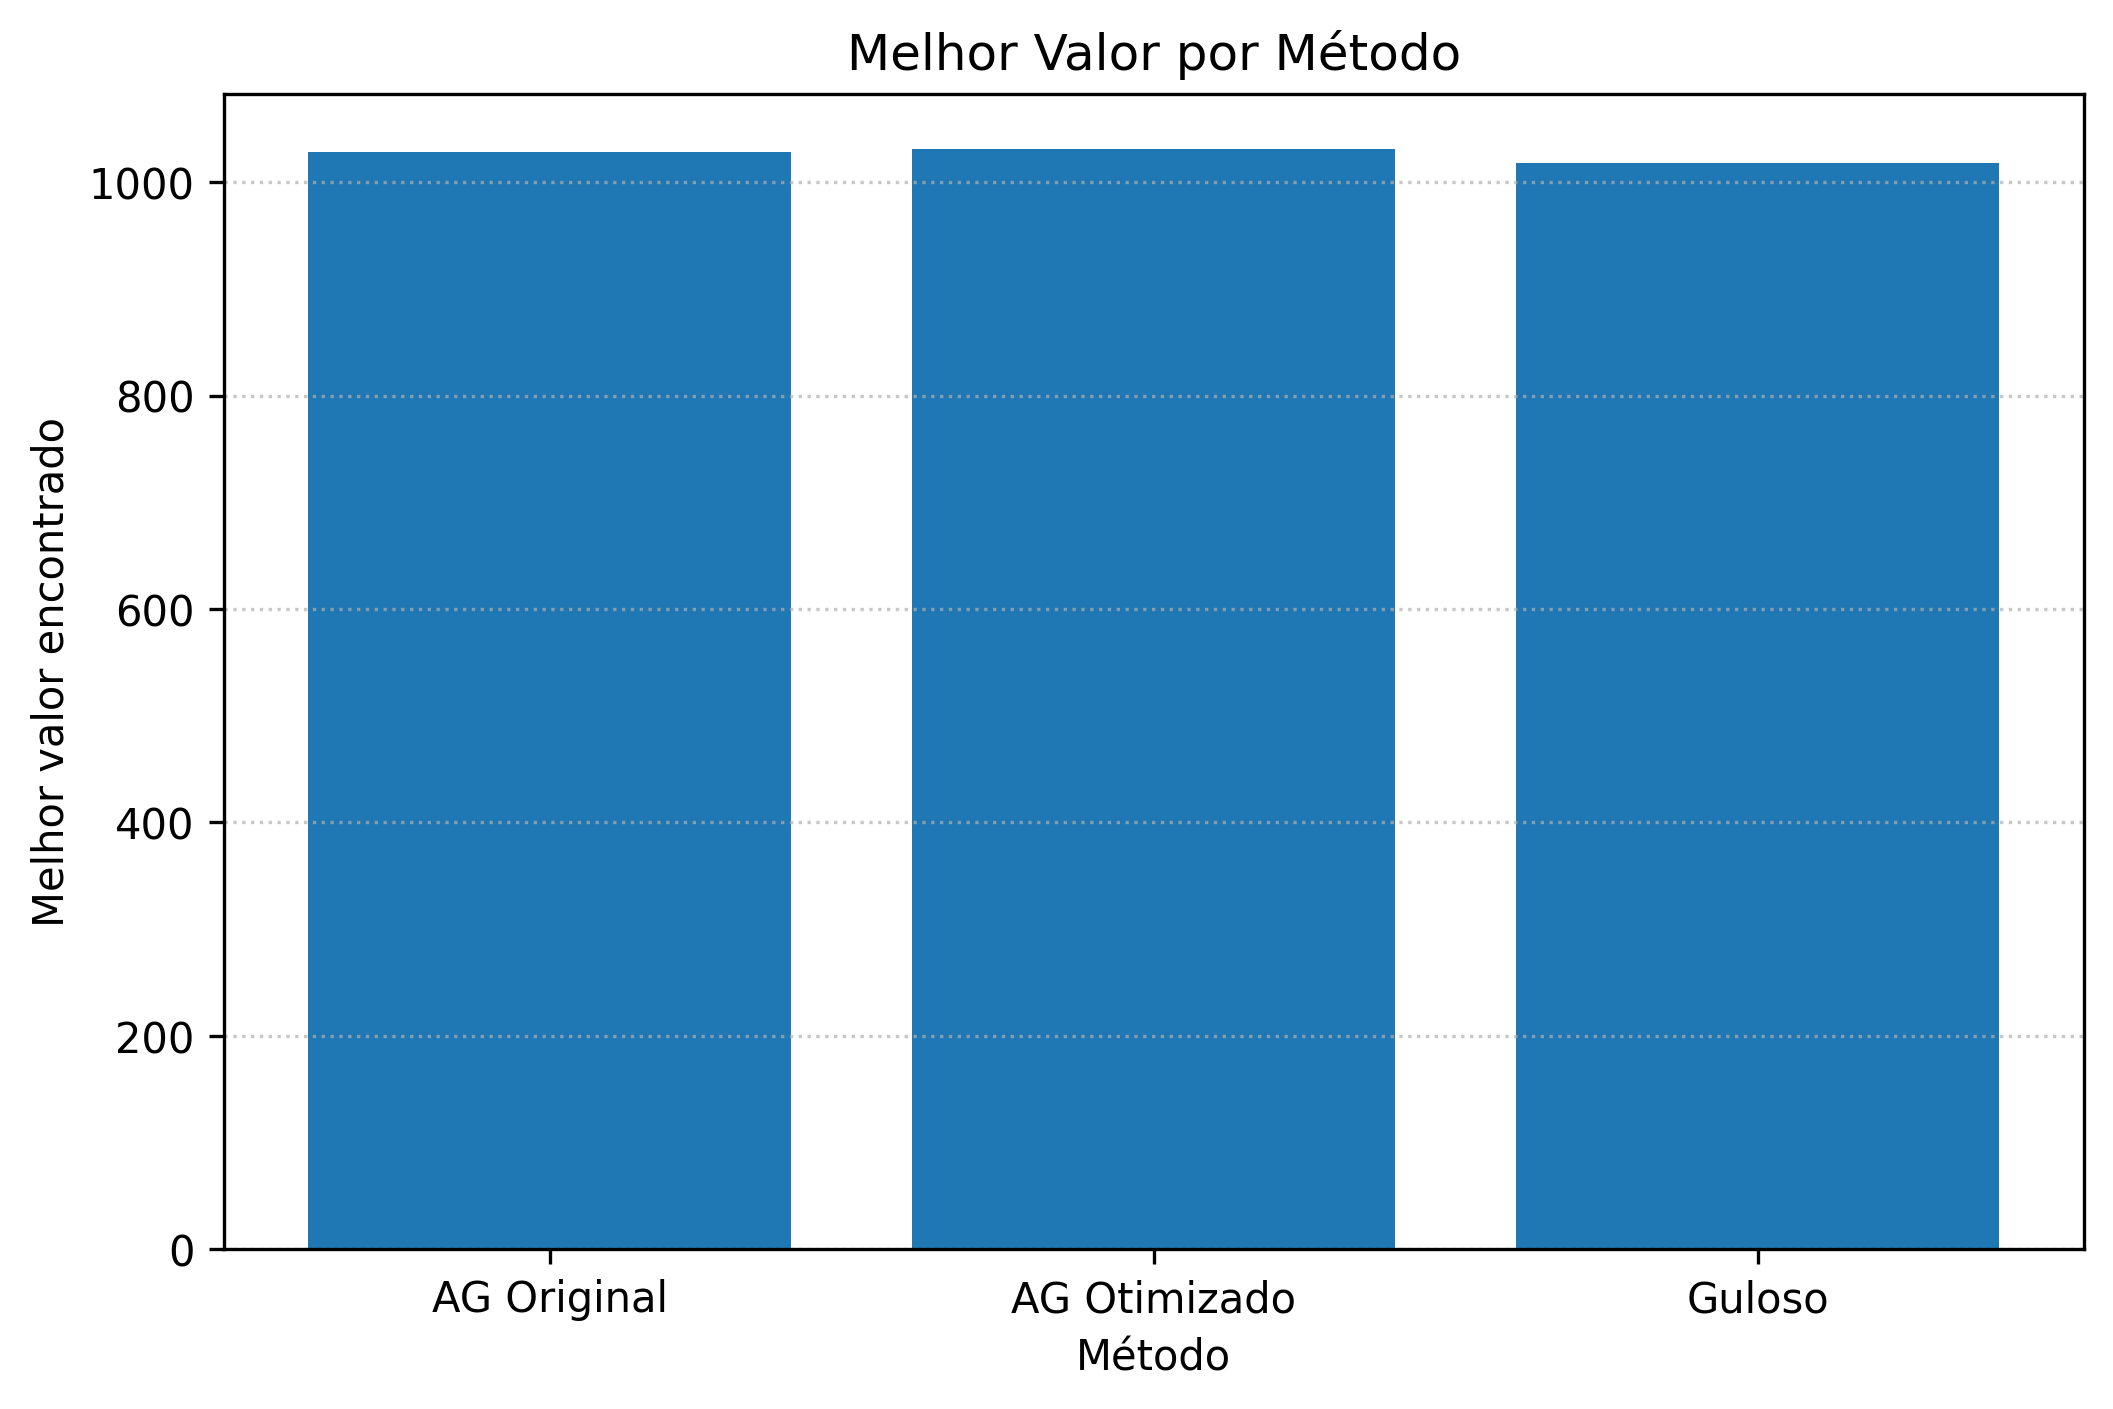
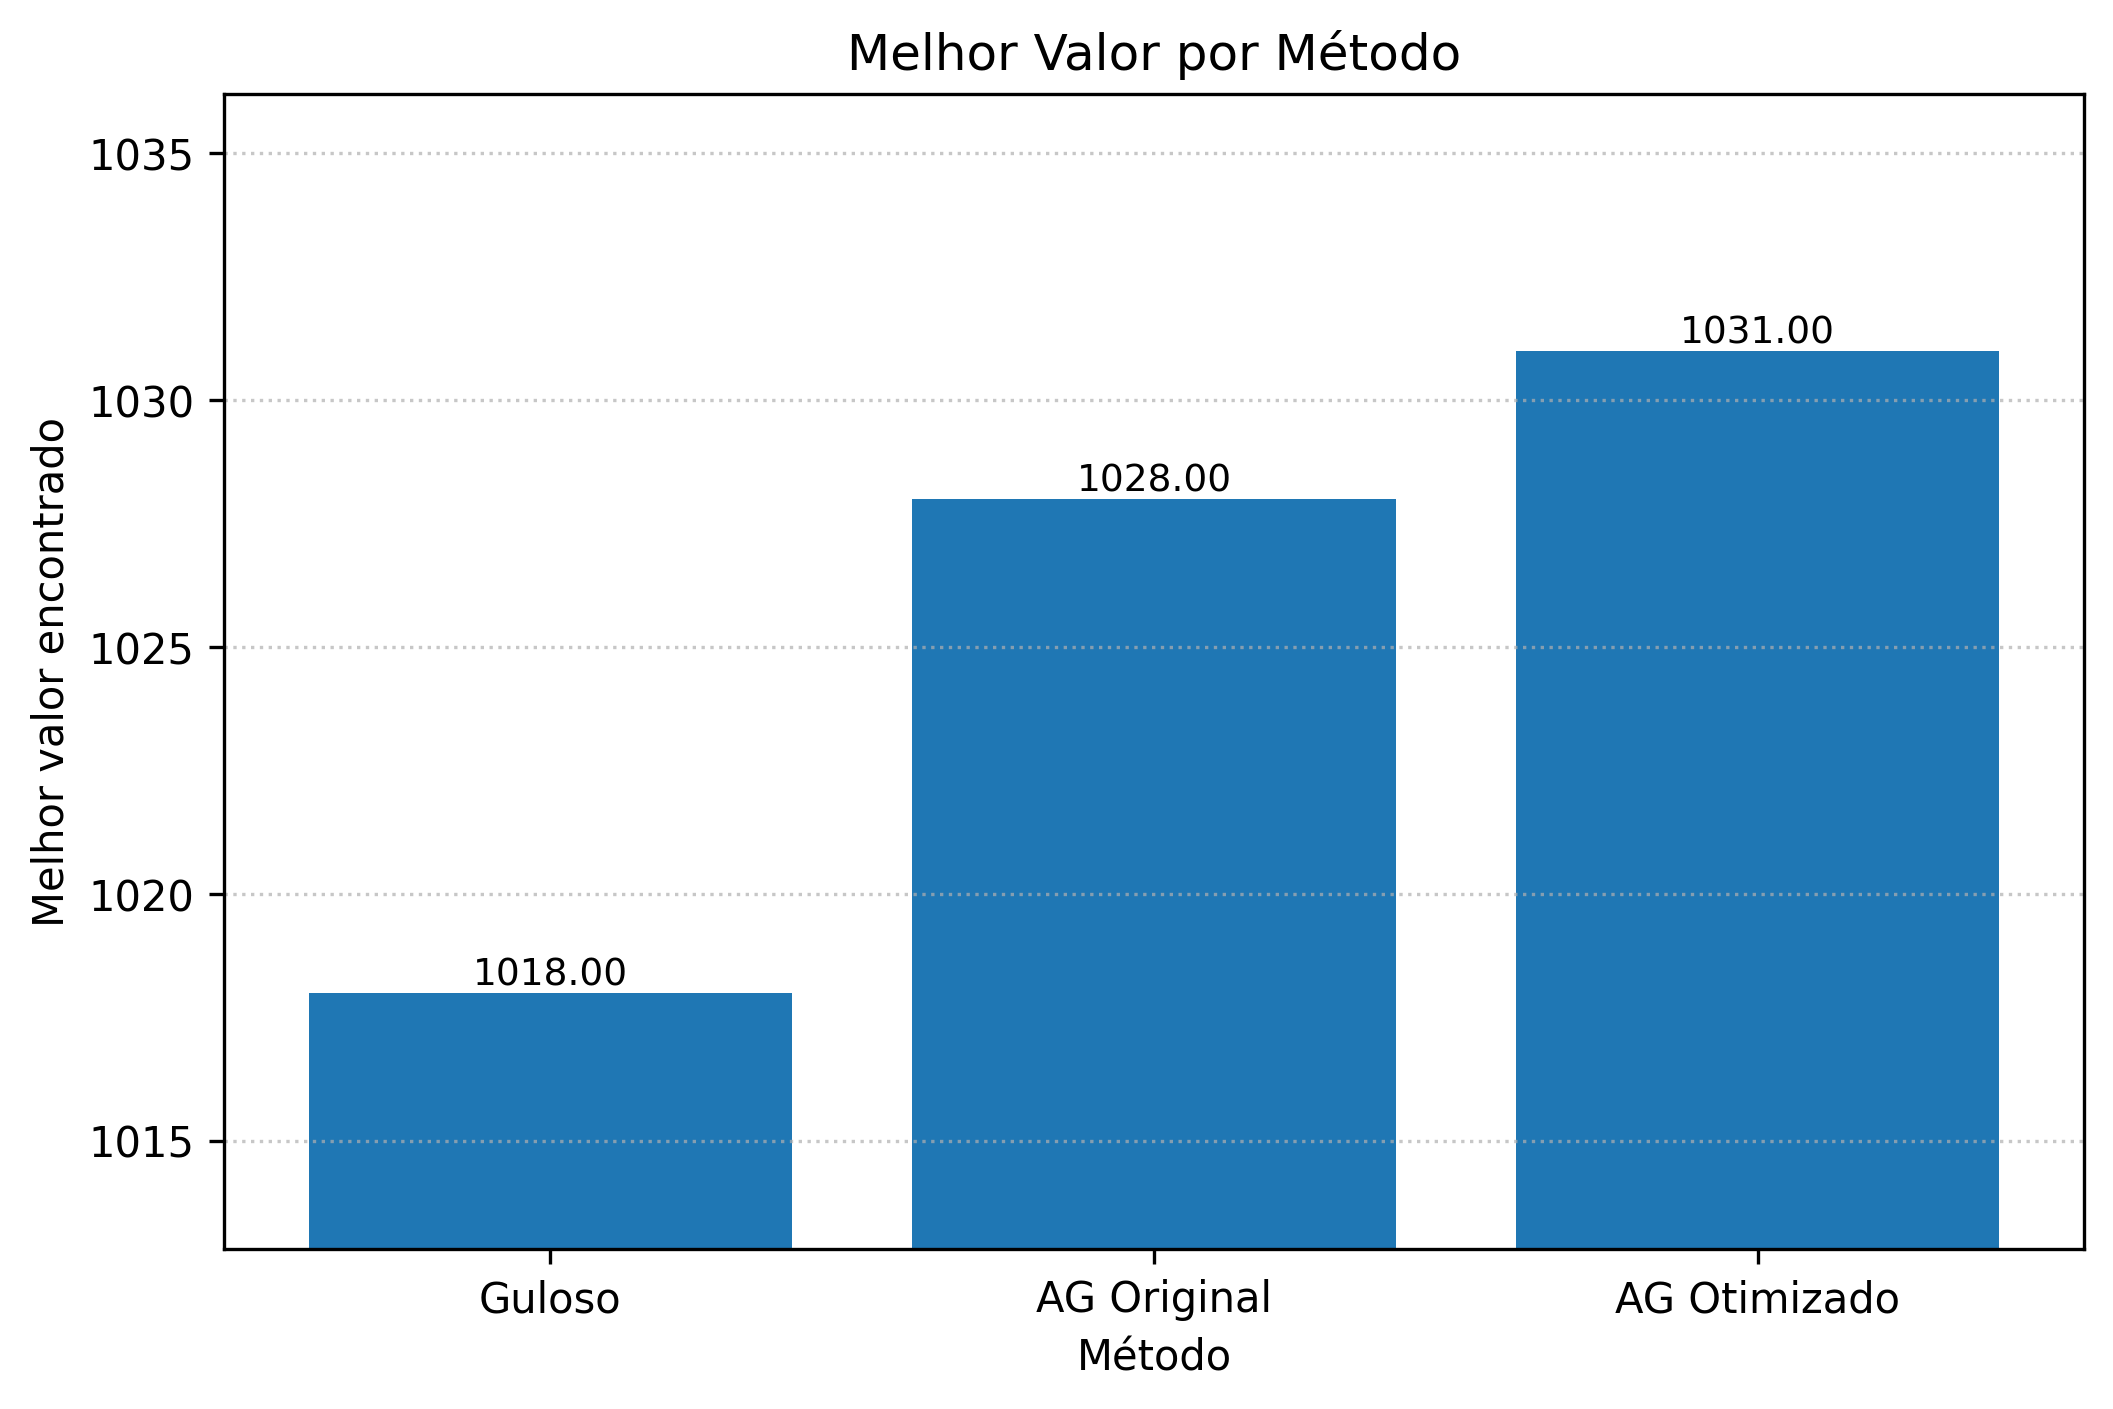
Melhora visualizacao dos graficos comparativos

diff --git a/src/mochila_ic236ep/gerar_graficos.py b/src/mochila_ic236ep/gerar_graficos.py
@@ -24,12 +24,69 @@ def ler_resumo(caminho_csv):
                 "tempo_medio_ms": float(linha["tempo_medio_ms"]),
             })
 
-    return dados
+    ordem = {
+        "Guloso": 0,
+        "AG Original": 1,
+        "AG Otimizado": 2,
+    }
+
+    return sorted(dados, key=lambda item: ordem.get(item["metodo"], 99))
 
 
-def gerar_grafico_barras(labels, valores, titulo, ylabel, nome_arquivo):
+def formatar_numero(valor):
+    if valor >= 100:
+        return f"{valor:.2f}"
+    if valor >= 1:
+        return f"{valor:.4f}"
+    return f"{valor:.5f}"
+
+
+def adicionar_rotulos(barras, valores):
+    for barra, valor in zip(barras, valores):
+        altura = barra.get_height()
+
+        plt.text(
+            barra.get_x() + barra.get_width() / 2,
+            altura,
+            formatar_numero(valor),
+            ha="center",
+            va="bottom",
+            fontsize=9
+        )
+
+
+def gerar_grafico_valor(labels, valores, titulo, ylabel, nome_arquivo):
     plt.figure(figsize=(8, 5))
-    plt.bar(labels, valores)
+
+    barras = plt.bar(labels, valores)
+    adicionar_rotulos(barras, valores)
+
+    menor = min(valores)
+    maior = max(valores)
+    margem = max((maior - menor) * 0.4, 2)
+
+    plt.ylim(menor - margem, maior + margem)
+
+    plt.title(titulo)
+    plt.xlabel("Método")
+    plt.ylabel(ylabel)
+    plt.grid(axis="y", linestyle=":", alpha=0.7)
+
+    caminho_saida = os.path.join(PASTA_RESULTADOS, nome_arquivo)
+    plt.savefig(caminho_saida, dpi=300, bbox_inches="tight")
+    plt.close()
+
+    print(f"Gráfico salvo: {caminho_saida}")
+
+
+def gerar_grafico_tempo(labels, valores, titulo, ylabel, nome_arquivo):
+    plt.figure(figsize=(8, 5))
+
+    barras = plt.bar(labels, valores)
+    adicionar_rotulos(barras, valores)
+
+    plt.yscale("log")
+
     plt.title(titulo)
     plt.xlabel("Método")
     plt.ylabel(ylabel)
@@ -53,7 +110,7 @@ def main():
     melhores_valores = [item["melhor_valor"] for item in dados]
     tempos_medios = [item["tempo_medio_ms"] for item in dados]
 
-    gerar_grafico_barras(
+    gerar_grafico_valor(
         labels=labels,
         valores=valores_medios,
         titulo="Valor Médio por Método",
@@ -61,7 +118,7 @@ def main():
         nome_arquivo="valor_medio_por_metodo.png",
     )
 
-    gerar_grafico_barras(
+    gerar_grafico_valor(
         labels=labels,
         valores=melhores_valores,
         titulo="Melhor Valor por Método",
@@ -69,11 +126,11 @@ def main():
         nome_arquivo="melhor_valor_por_metodo.png",
     )
 
-    gerar_grafico_barras(
+    gerar_grafico_tempo(
         labels=labels,
         valores=tempos_medios,
         titulo="Tempo Médio por Método",
-        ylabel="Tempo médio (ms)",
+        ylabel="Tempo médio (ms) - escala logarítmica",
         nome_arquivo="tempo_medio_por_metodo.png",
     )
 
